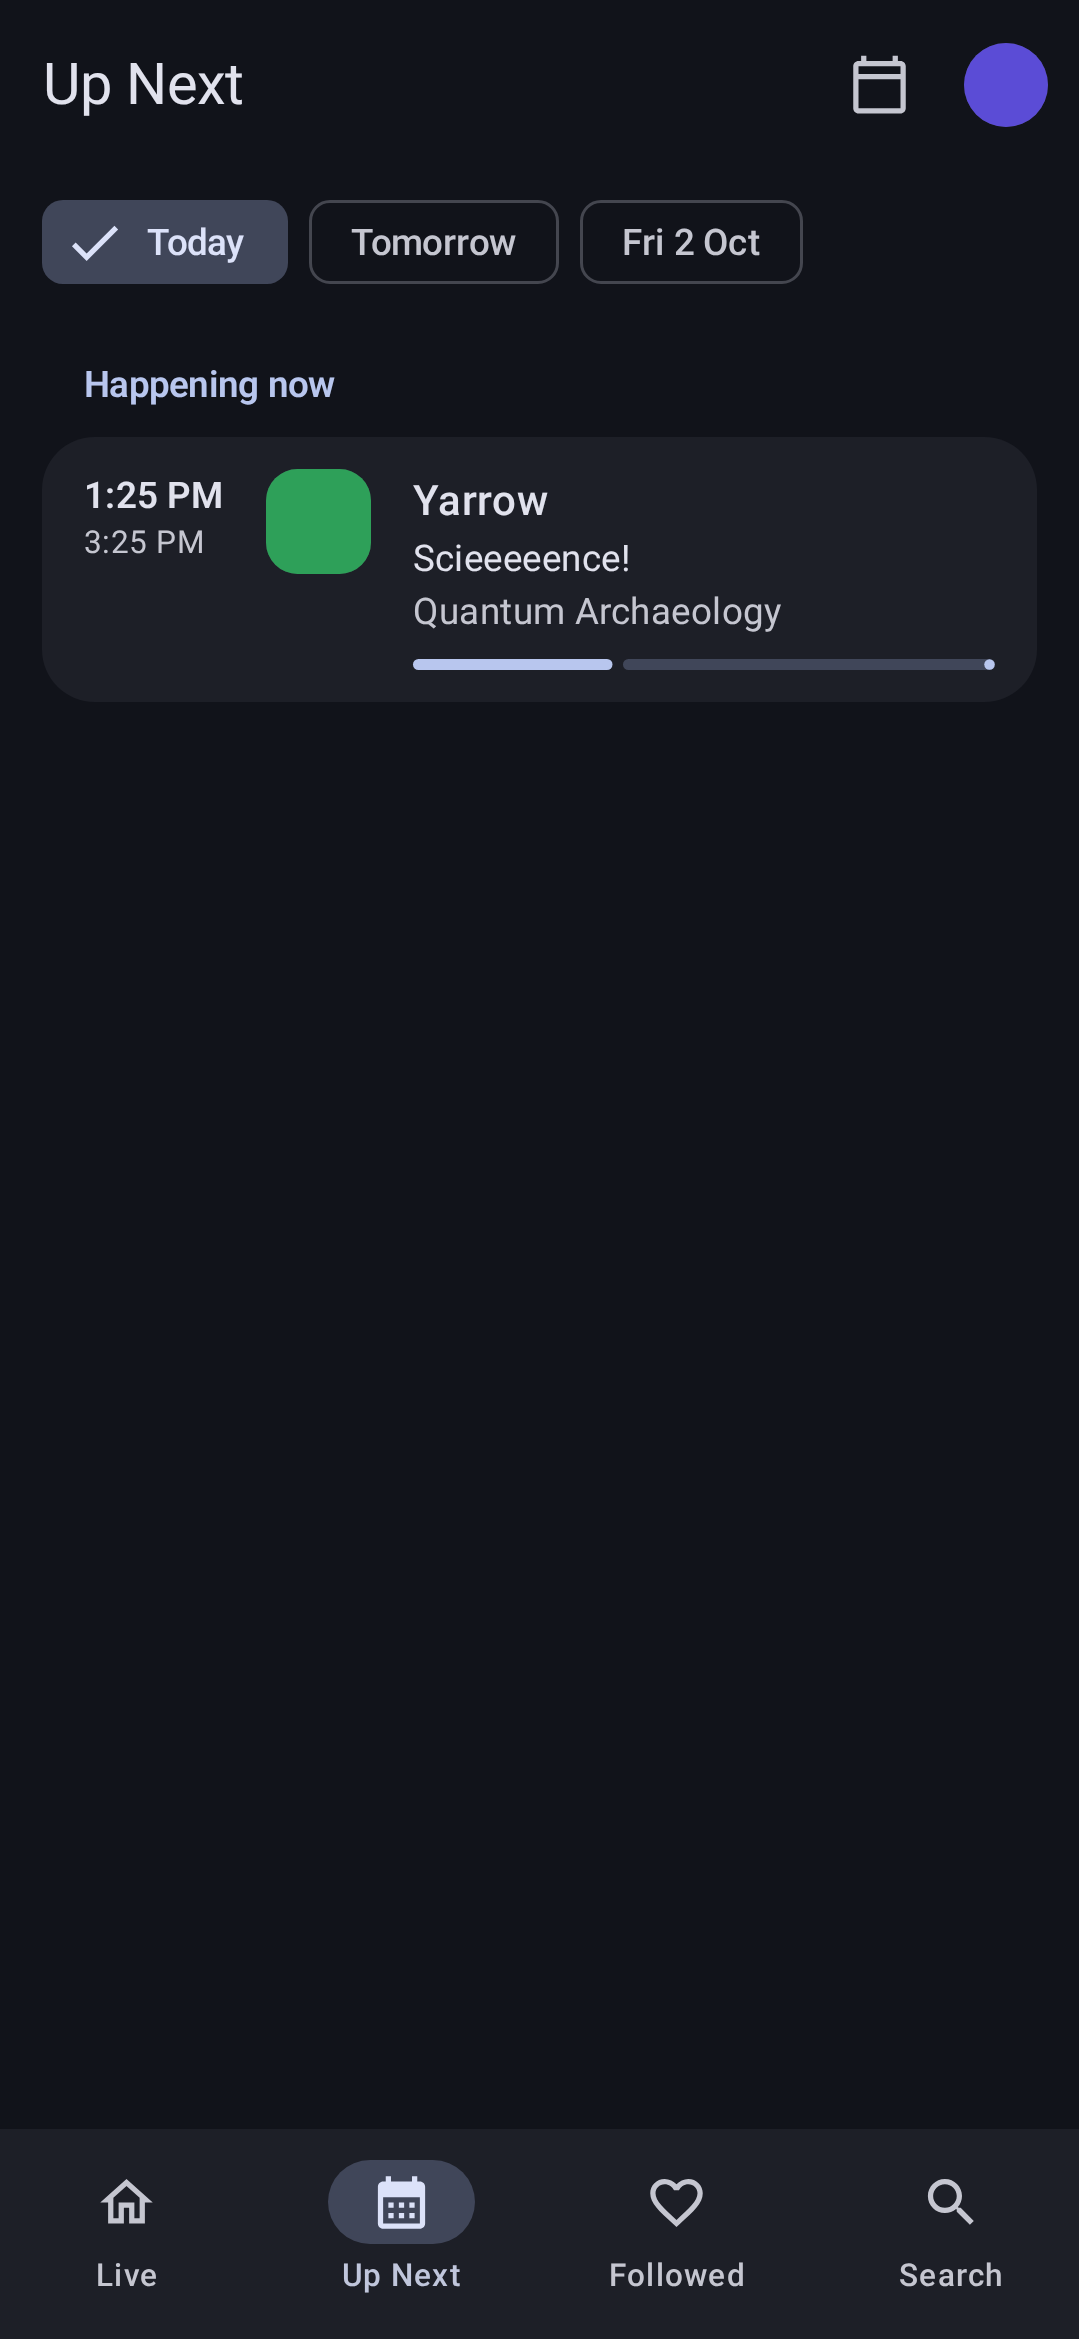
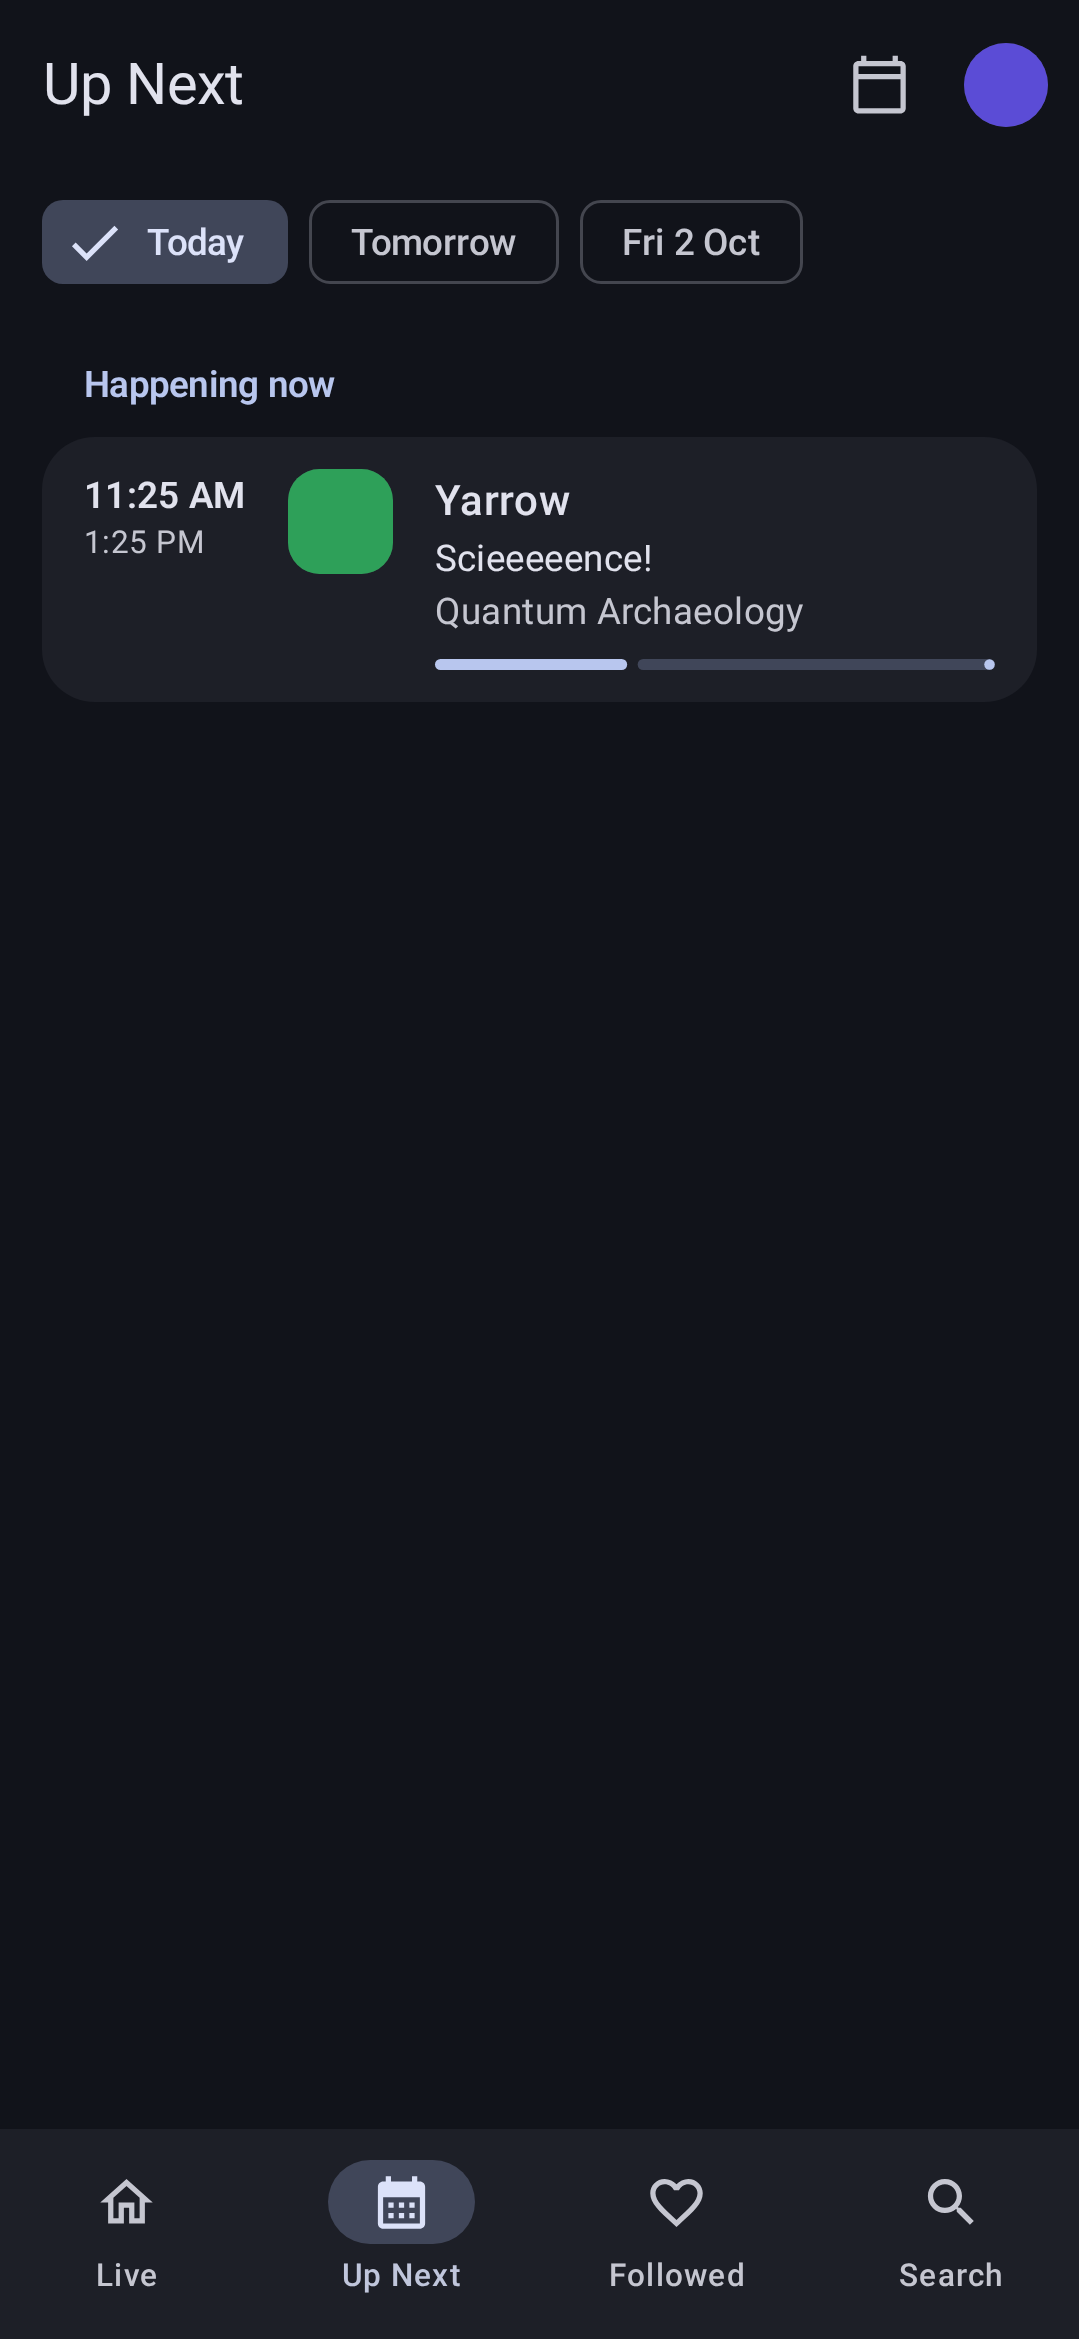
docs: update READMEs

diff --git a/docs/README.md b/docs/README.md
@@ -1,0 +1,70 @@
+# Website
+
+The source of [just-chatting.app](https://just-chatting.app), built by GitHub Pages with Jekyll.
+It uses its own theme; there is no external theme to install.
+
+## Layout
+
+| Path | Contents |
+|---|---|
+| `index.md` | The home page's copy (hero, section titles), in its front matter. |
+| `privacy.md` | The privacy policy. Other text pages can be added the same way, with `layout: page`. |
+| `_data/features.yml` | The feature cards, and which screenshots they show. |
+| `_data/devices.yml` | The devices in the "Fits any screen" section. |
+| `_data/downloads.yml` | The download options. |
+| `_layouts/` | `default` (the page shell), `home` (the home page) and `page` (text pages). |
+| `_includes/` | Reusable pieces: cards, device frames, icons, the logo, the header and footer. |
+| `assets/css/main.scss` | The styles, with the light and dark colors at the top. |
+| `assets/screenshots/landing/` | The screenshots of the home page, generated from the app (see below). |
+| `auth/`, `.well-known/` | The Twitch login callback and Android app links. Not part of the theme; leave as is. |
+
+`assets/badges/` isn't used by the website, but by the repository's main README, which also shows
+some of the screenshots from `assets/screenshots/landing/`: renaming or removing their tests
+breaks it.
+
+## Updating the screenshots
+
+The screenshots of the home page are Compose screenshot tests, in
+`app-android/src/screenshotTest/kotlin/fr/outadoc/justchatting/landing/`:
+
+- `LandingScreenshotTest.kt`: one test per screenshot, each in light and dark themes.
+- `LandingFixtures.kt`: the content they show, mirroring the app's demo mode.
+- `LandingTheme.kt`, `LandingStatusBar.kt`: the theme, preview sizes and fake status bar.
+
+After a UI change, regenerate them and copy them to the website, from the repository's root:
+
+```sh
+scripts/update-landing-screenshots.sh
+```
+
+This runs `./gradlew :app-android:updateDebugScreenshotTest`, then copies each image to
+`docs/assets/screenshots/landing/`, named after its test:
+`LandingDynamicColorsPokeScreenshotTest` in the dark theme becomes `dynamic-colors-poke-dark.png`.
+Pass `--skip-gradle` to only copy the images the last run generated.
+
+To use a screenshot on the website, refer to it by that name, without the `-light`/`-dark` suffix
+(in `_data/features.yml` or `_data/devices.yml`); the page picks the one matching the visitor's
+theme. To add one, add a test to `LandingScreenshotTest.kt` and run the script again.
+
+## Building the site
+
+GitHub Pages builds and deploys the site from `docs/` itself; there is no build step or workflow
+to run for that.
+
+To preview it locally, the pinned version of `github-pages` in `Gemfile.lock` needs Ruby 3, so the
+simplest is to run it in a container, from the repository's root:
+
+```sh
+podman run --rm -p 4000:4000 -v "$PWD/docs":/site:Z -w /site \
+  -v jc-jekyll-bundle:/bundle -e BUNDLE_PATH=/bundle \
+  docker.io/library/ruby:3.3 \
+  bash -c "bundle install && bundle exec jekyll serve --host 0.0.0.0"
+```
+
+Then open http://localhost:4000. The site is rebuilt whenever a file changes; changes to
+`_config.yml` need a restart. The `jc-jekyll-bundle` volume keeps the installed gems between runs;
+remove it with `podman volume rm jc-jekyll-bundle`. Docker works too, with `docker` instead of
+`podman`, and without the `:Z` suffix.
+
+With Ruby 3 installed locally, `bundle install` then `bundle exec jekyll serve` from `docs/` works
+as well.

diff --git a/README.md b/README.md
@@ -11,20 +11,29 @@ An app focused on a great Twitch chat experience.
 - **Slide to reply** to any message, and see the context of the conversation.
 - See your favorite channels' **future schedule**.
 
-<table>
-<tr>
-<td>
+<p align="center">
+<picture>
+  <source media="(prefers-color-scheme: dark)" srcset="./docs/assets/screenshots/landing/dynamic-colors-yarrow-dark.png">
+  <img src="./docs/assets/screenshots/landing/dynamic-colors-yarrow-light.png" alt="Yarrow's chat, themed with the colors of the channel" width="32%">
+</picture>
+<picture>
+  <source media="(prefers-color-scheme: dark)" srcset="./docs/assets/screenshots/landing/dynamic-colors-solanum-dark.png">
+  <img src="./docs/assets/screenshots/landing/dynamic-colors-solanum-light.png" alt="Solanum's chat, themed with the colors of the channel" width="32%">
+</picture>
+<picture>
+  <source media="(prefers-color-scheme: dark)" srcset="./docs/assets/screenshots/landing/dynamic-colors-poke-dark.png">
+  <img src="./docs/assets/screenshots/landing/dynamic-colors-poke-light.png" alt="Poke's chat, themed with the colors of the channel" width="32%">
+</picture>
+</p>
 
-![](./docs/assets/screenshots/chat-narrow.webp)
+<p align="center">
+<picture>
+  <source media="(prefers-color-scheme: dark)" srcset="./docs/assets/screenshots/landing/tablet-dark.png">
+  <img src="./docs/assets/screenshots/landing/tablet-light.png" alt="The list of live channels next to an open chat, on a tablet" width="100%">
+</picture>
+</p>
 
-</td>
-<td>
-
-![](./docs/assets/screenshots/chat-wide.webp)
-
-</td>
-</tr>
-</table>
+The screenshots are generated from the app; see [docs/README.md](./docs/README.md) to update them.
 
 ## Download
 
